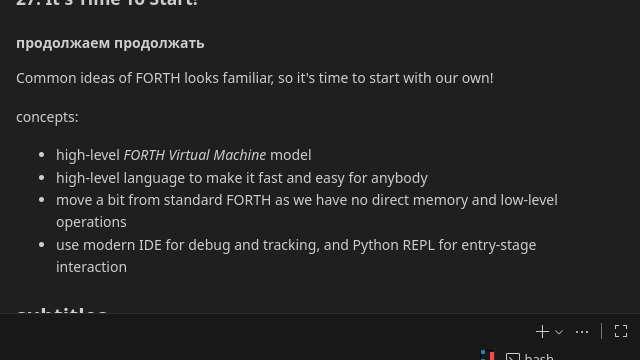
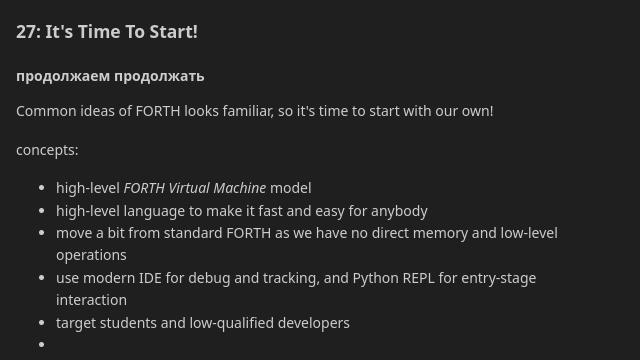
.

diff --git a/doc/slide/slide.py b/doc/slide/slide.py
@@ -76,7 +76,7 @@ def vid(k,x=1250,y=440,w=640,h=360):
 
 vid('14',700,70)
 
-vid('27')
+vid('27',y=430)
 single('27')
 
 with open('tmp/slide/fragments.list', 'w') as list:

diff --git a/doc/slide/27.md b/doc/slide/27.md
@@ -4,12 +4,30 @@
 Common ideas of FORTH looks familiar, so it's time to start with our own!
 
 concepts:
+
 - high-level *FORTH Virtual Machine* model
 - high-level language to make it fast and easy for anybody
 - move a bit from standard FORTH as we have no direct memory and low-level
   operations
 - use modern IDE for debug and tracking, and Python REPL for entry-stage
   interaction
+- target students and low-qualified developers
+-
 
 ## subtitles
 ### ru
+
+Теперь общие идеи базового Форта кажутся вам знакомыми, так что пришло время
+начать нашу собственную реализацию.
+
+Перечислим некоторые концепции, которых мы будет придерживаться:
+
+- мы реализуем максимально высокоуровневую модель *виртуальной Форт-машины*
+- используем высокоуровневый язык программирования, обеспечивающий быстроту и
+  простоту разработки
+- немного отходим от стандартного Форта, поскольку у нас нет прямого доступа к
+памяти, и недоступны низкоуровневые операции: работаем в пределах виртуальной
+машины языка Python
+- используем современную IDE для отладки и отслеживания, а также Python REPL для
+начального взаимодействия с системой
+- ориентируемся на студентов и разработчиков с низкой квалификацией
